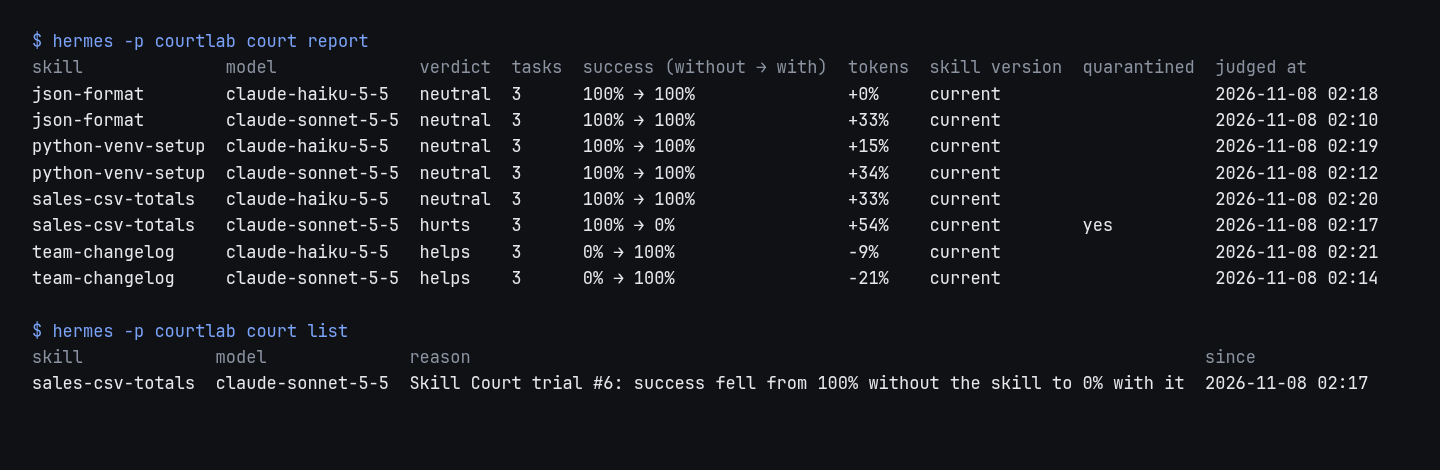
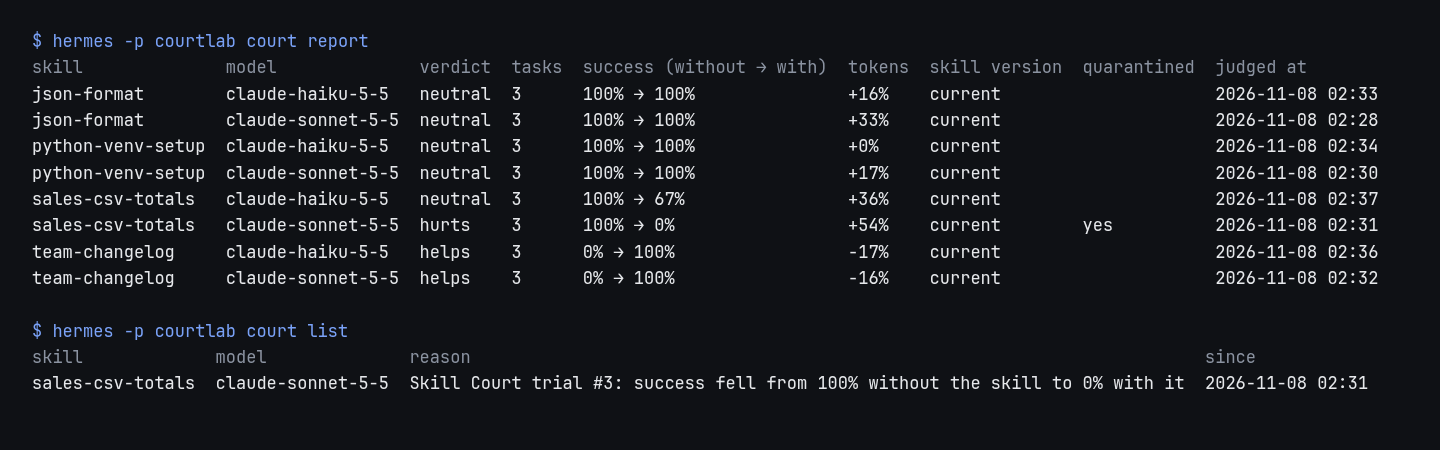
Release 1.0.0: truthful efficiency reasons, final demo results, Desktop screenshot, demo script

diff --git a/skill-court/scoring.py b/skill-court/scoring.py
@@ -102,8 +102,10 @@ def score(pairs: list[Pair], *, min_tasks: int = 3, efficiency_margin: float = 0
     if success_ci[0] > 0:
         return result(HELPS, f"success rose from {success_without:.0%} without the skill to {success_with:.0%} with it")
     if token_ci is not None and token_change is not None and len(task_ratios) >= min_tasks:
+        change = (f"success went from {success_without:.0%} without the skill to {success_with:.0%} with it"
+                  if success_delta else "success was the same")
         if success_delta <= 0 and token_ci[0] > efficiency_margin:
-            return result(HURTS, f"no gain in success, and runs used {_pct(token_change)} tokens with the skill")
+            return result(HURTS, f"{change}, and runs used {_pct(token_change)} tokens with the skill")
         if success_delta >= 0 and token_ci[1] < -efficiency_margin:
-            return result(HELPS, f"same success, and runs used {_pct(token_change)} tokens with the skill")
+            return result(HELPS, f"{change}, and runs used {_pct(token_change)} tokens with the skill")
     return result(NEUTRAL, "no measurable difference in success or token use")

diff --git a/tests/test_scoring.py b/tests/test_scoring.py
@@ -77,3 +77,11 @@ def test_token_change_ignores_pairs_without_an_outcome():
 def test_intervals_are_reproducible():
     pairs = [pair(True, False), pair(False, True), pair(True, True, 1500, 1000), pair(False, False, 700, 1000)]
     assert score(pairs) == score(pairs)
+
+
+def test_efficiency_verdict_reports_a_success_drop_it_did_not_need():
+    s = score([pair(False, True, 1600, 1000), pair(False, True, 1500, 1000), pair(True, True, 1550, 1000)])
+    assert s.verdict == HURTS
+    assert s.reason.startswith("success went from 100% without the skill to 33% with it")
+    same = score([pair(True, True, 2000, 1000) for _ in range(3)])
+    assert same.reason.startswith("success was the same")

diff --git a/docs/demo-script.md b/docs/demo-script.md
@@ -1,17 +1,17 @@
 # Demo video script (under 90 seconds)
 
-Recorded on a lab profile (`courtlab`) with the demo library from `demo/setup.sh`. Every number on
-screen comes from the real runs; replace the placeholders in brackets with the figures from your
-recording before posting.
+Record on a lab profile (`courtlab`) after `demo/setup.sh courtlab`. The figures below are from the
+runs on 8 Nov 2026 (Hermes 0.23.0); a fresh recording can differ by a task or two, so read the
+numbers off your own screen.
 
-| Time | Screen | Voice-over / caption |
+| Time | Screen | Caption / voice-over |
 |---|---|---|
-| 0–8 s | Terminal: `hermes -p courtlab skills list`, the four demo skills highlighted | "Hermes writes its own skills. Nobody checks whether they help." |
-| 8–30 s | `hermes -p courtlab court trial --all --tasks 3 --apply`, sped up 8×; per-run lines scroll, both arms run in Docker | "Skill Court runs each task twice, with the skill and without it, in fresh Docker sandboxes, and checks the result inside the sandbox." |
-| 30–45 s | The final table: `team-changelog` helps, `sales-csv-totals` hurts ([success with → without]), `python-venv-setup` hurts ([+N]% tokens), `json-format` neutral; "quarantined: yes" on the two | "One skill learned a convention: it helps. One learned 'amounts are in cents' from a single session: every total comes out wrong. One adds a ritual that burns tokens. Both get quarantined." |
-| 45–58 s | `hermes -p courtlab -z "Without calling any tools, list the skills in your <available_skills> index under the demo category"` → only `json-format`, `team-changelog` | "The next session doesn't see them. The files are untouched." (cut to `git diff --stat` / `ls skills/demo`) |
-| 58–75 s | Same trial with `--model claude-haiku-5-5`; then the Desktop **Skill Court** page with both models side by side | "Verdicts are per model. The same skill can hurt Sonnet and do nothing on Haiku, so it is hidden only where it hurts." |
-| 75–88 s | Desktop: press **Release** on `sales-csv-totals`; the live announcement; `hermes court list` | "One click brings it back. Skill Court: proof, not self-assessment." |
+| 0–8 s | `hermes -p courtlab skills list`, the four demo skills highlighted | "Hermes writes its own skills. Nothing checks whether they help." |
+| 8–30 s | `hermes -p courtlab court trial --all --tasks 3 --apply`, sped up; per-run lines scroll, with and without each skill, each run in its own Docker sandbox | "Skill Court runs every task twice, with the skill and without it, and checks the result inside the sandbox." |
+| 30–45 s | The final table: `team-changelog` helps (0% → 100%), `sales-csv-totals` hurts (100% → 0%, quarantined), the other two neutral | "The team convention helps. The rule 'amounts are in cents', learned from one export, turns every total wrong, so it is quarantined." |
+| 45–58 s | `hermes -p courtlab chat -Q --oneshot -q "Without calling any tools, list the skills in your <available_skills> index under the demo category"`: `sales-csv-totals` is gone; then `ls ~/.hermes/profiles/courtlab/skills/demo` still shows it | "The next session no longer sees it. The file is untouched." |
+| 58–75 s | The same trial with `--model claude-haiku-5-5 --provider anthropic`, then the Desktop **Skill Court** page with both models side by side | "Verdicts are per model. On Haiku the same skill was not consistently harmful, so Haiku still sees it." |
+| 75–88 s | Desktop: press **Release** on `sales-csv-totals`, then `hermes -p courtlab court list` | "One click brings it back. Skill Court: evidence instead of self-assessment." |
 
-Post on X tagging @NousResearch with the catalog PR link and the repo:
-https://github.com/saatvik333/hermes-skill-court
+Post on X tagging @NousResearch, with the catalog PR link and https://github.com/saatvik333/hermes-skill-court,
+then submit both links in the hackathon form.

diff --git a/skill-court/README.md b/skill-court/README.md
@@ -28,13 +28,14 @@ task checked inside its sandbox afterwards:
 | Skill | What it is | Claude Sonnet 5.5 | Claude Haiku 5.5 |
 |---|---|---|---|
 | `team-changelog` | A team convention the model can't guess | **helps**: success 0% → 100% | **helps**: success 0% → 100% |
-| `sales-csv-totals` | A lesson overgeneralised from one session ("amounts are in cents") | **hurts**: success 100% → 0% | neutral |
+| `sales-csv-totals` | A lesson overgeneralised from one session ("amounts are in cents") | **hurts**: success 100% → 0%, quarantined | neutral: success 100% → 67% |
 | `python-venv-setup` | A setup ritual learned in another repo | neutral | neutral |
 | `json-format` | A harmless tip | neutral | neutral |
 
-Sonnet followed the "cents" rule and got every total wrong; Haiku loaded the same skill and ignored
-it. So `sales-csv-totals` is quarantined for Sonnet 5.5 only. The demo is in `demo/` (see
-[Try it](#try-it)).
+Sonnet followed the "cents" rule on every task, in each of the three trials we ran, so the skill is
+quarantined for Sonnet. Haiku followed it only sometimes (one or two wrong totals out of three in
+two of its three trials), which is not consistent enough for a verdict at three tasks, so Haiku
+still sees it. The demo is in `demo/` (see [Try it](#try-it)).
 
 ## How a trial works
 
@@ -96,6 +97,8 @@ replay profiles for inspection.
 The plugin adds a **Skill Court** page to Hermes Desktop and the Webapp (turn its Desktop half on in
 **Capabilities → Plugins**). It lists the latest verdict per skill and model, a skill's verdicts on
 different models side by side, harmful skills first, and lets you quarantine or release each one.
+
+![The Skill Court page in Hermes Desktop](../docs/desktop.png)
 
 ## Install
 
